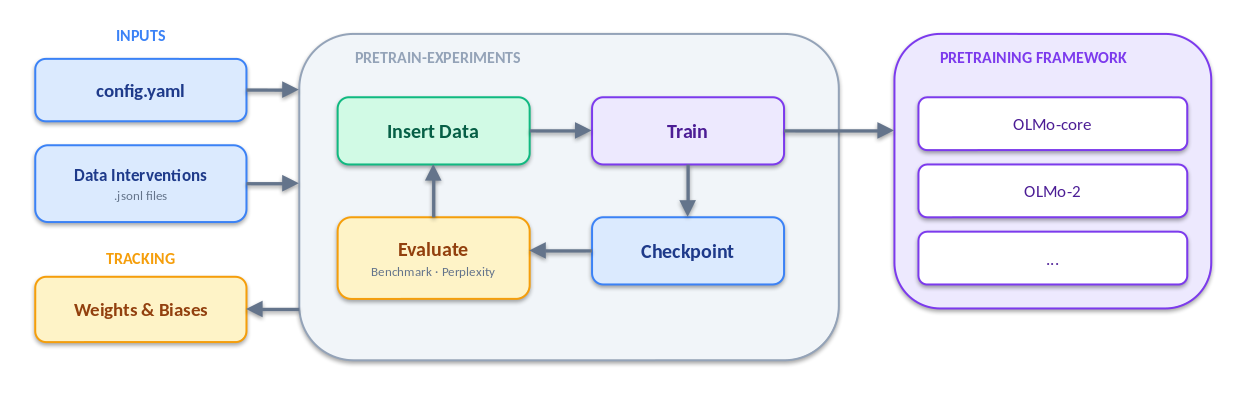
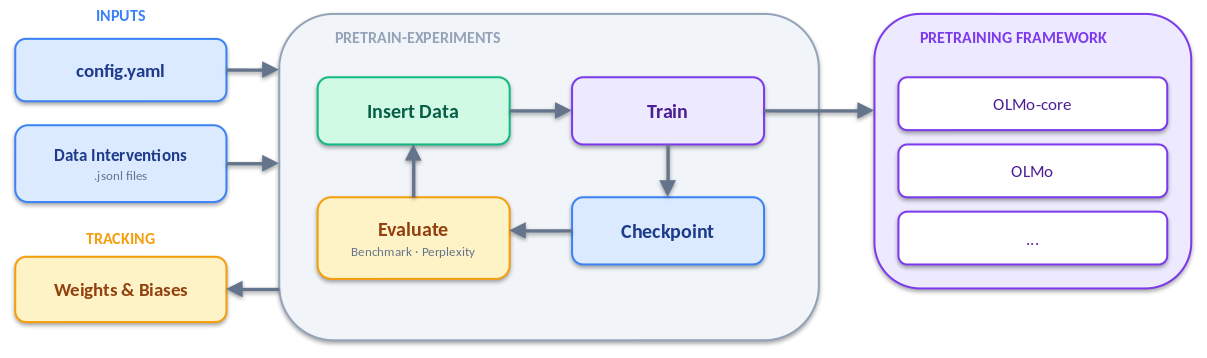
Fix framework naming: OLMo-2 → OLMo, OLMo-3 → OLMo-Core
The models are named OLMo-2/OLMo-3 but the pretraining frameworks
are named OLMo/OLMo-Core. Update README and illustration to use
the correct framework names.

diff --git a/README.md b/README.md
@@ -20,7 +20,7 @@ Take a language model checkpoint, continue training with targeted data intervent
 ## Features
 
 - 🧬 Inject texts or tokens at precise positions in the training data
-- 🔌 Supports [OLMo-2](https://github.com/allenai/OLMo) and [OLMo-3](https://github.com/allenai/OLMo-core), extensible to other frameworks
+- 🔌 Supports [OLMo](https://github.com/allenai/OLMo) and [OLMo-Core](https://github.com/allenai/OLMo-core), extensible to other frameworks
 - 📊 Run benchmarks and custom evaluation scripts on every checkpoint
 - 📋 Automatic Weights & Biases logging
 - ⚙ YAML configs with environment variable substitution and CLI overrides
@@ -40,7 +40,7 @@ pip install -e .
 You need at least one training backend. Each requires a modified fork with data insertion support.
 
 <details>
-<summary><b>OLMo-2</b> (used in the ICLR 2026 paper)</summary>
+<summary><b>OLMo</b> (used in the ICLR 2026 paper)</summary>
 
 ```bash
 git clone https://github.com/sbordt/OLMo
@@ -54,7 +54,7 @@ pip install h5py
 </details>
 
 <details>
-<summary><b>OLMo-3</b> (OLMo-Core, for newer models)</summary>
+<summary><b>OLMo-Core</b> (for newer models)</summary>
 
 ```bash
 git clone https://github.com/sbordt/OLMo-core
